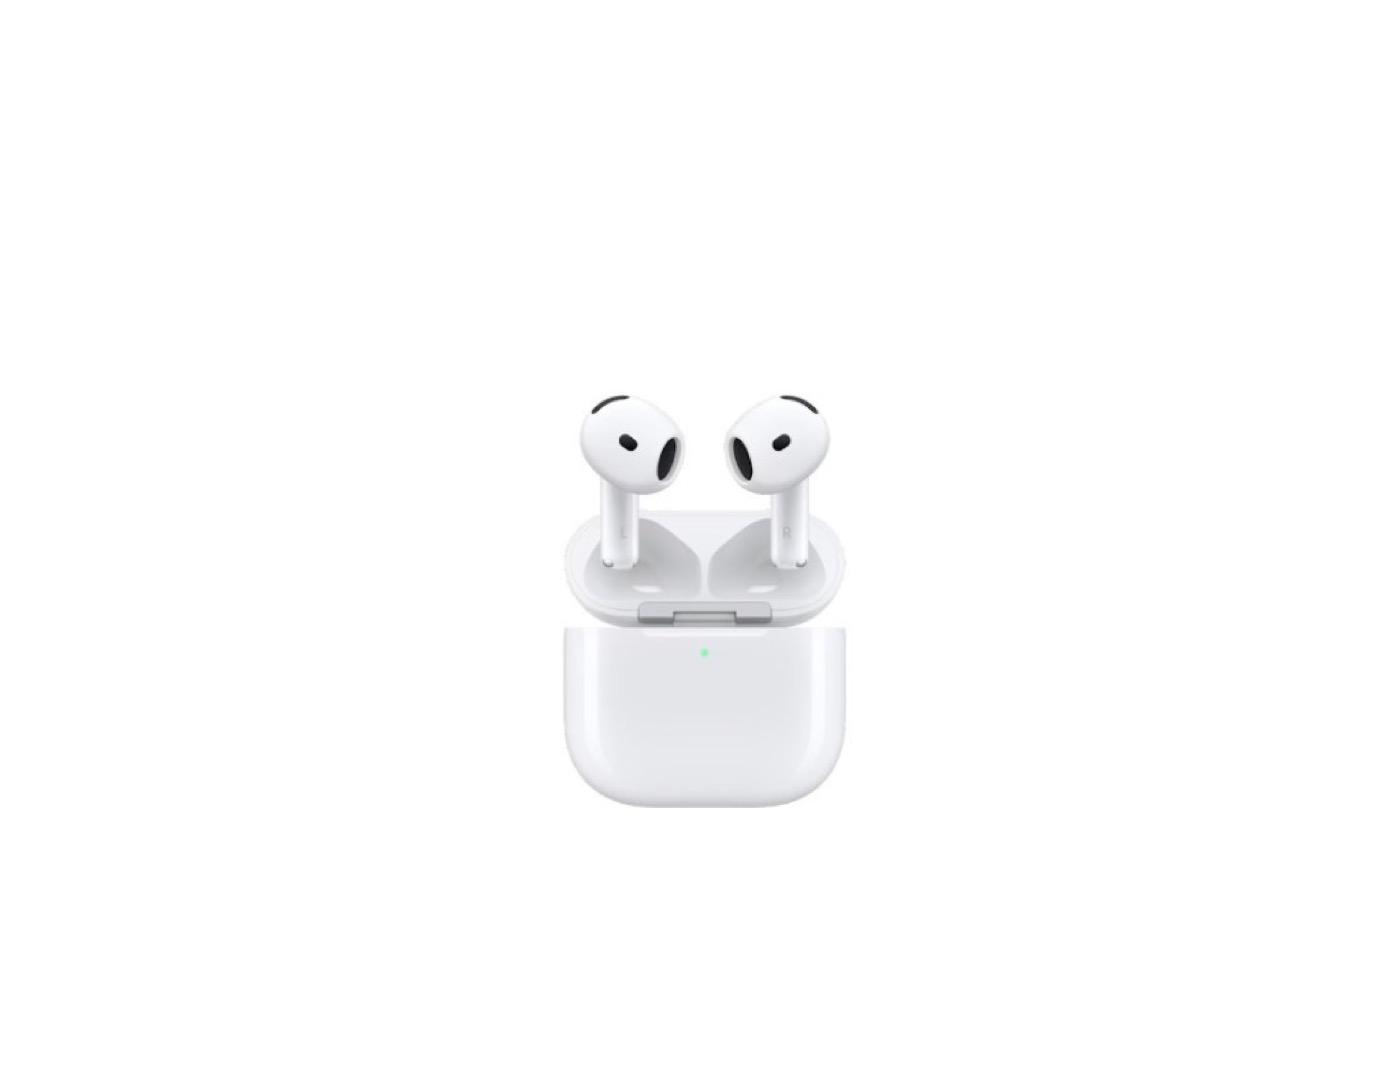
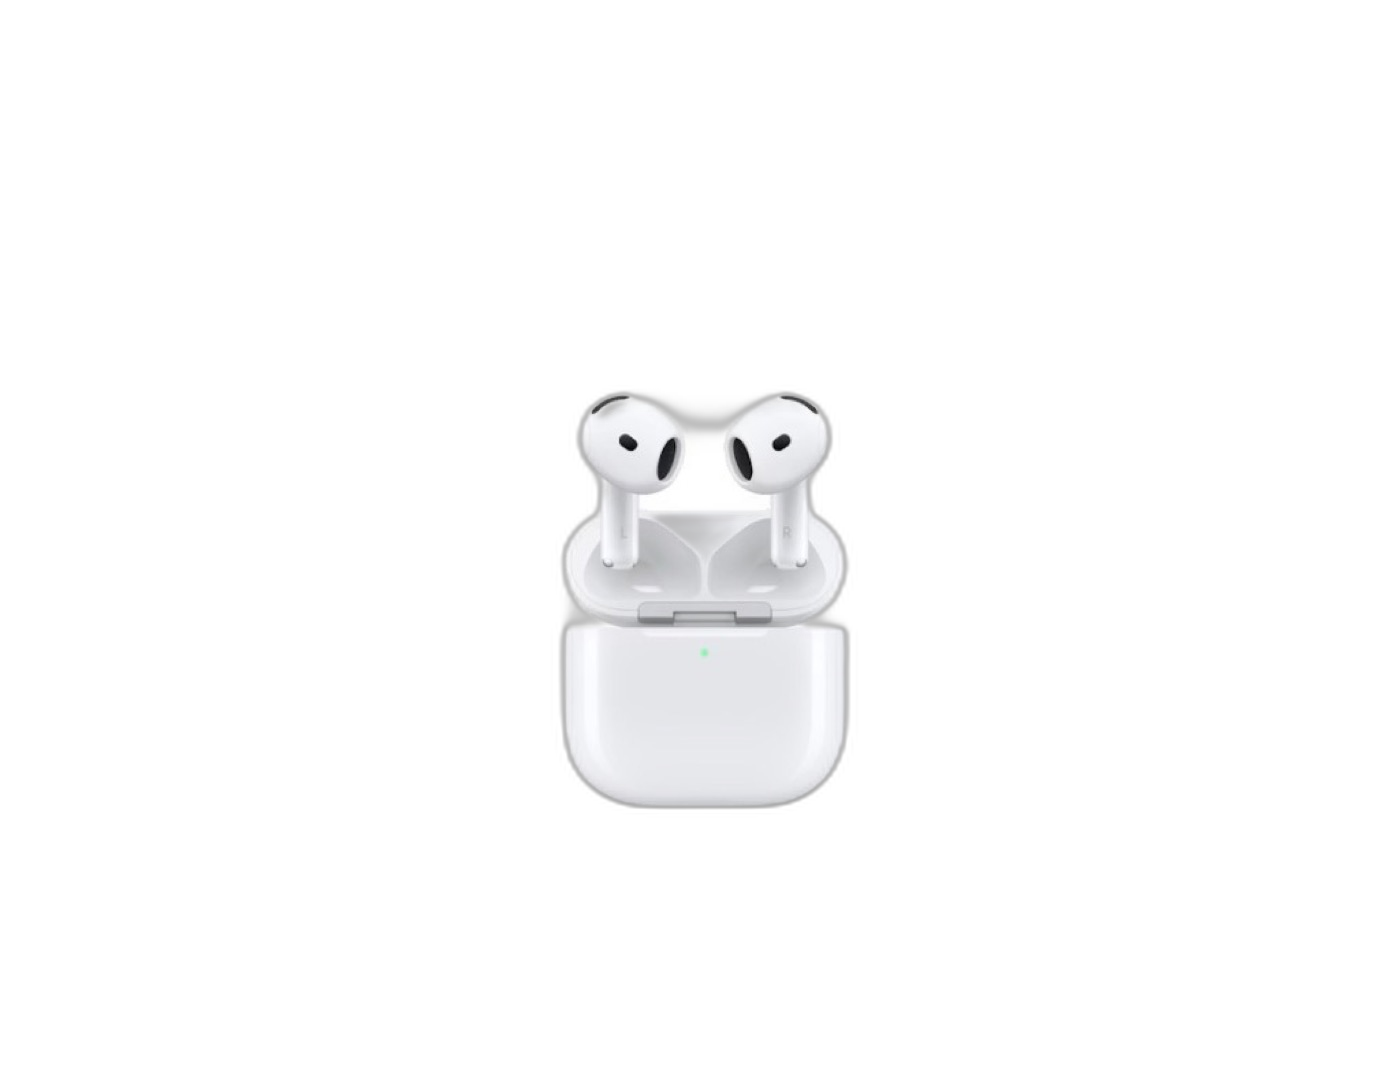
instock: transparent cutouts for tech photos (rembg); drop extra shadow
- AirPods, Mac mini, PS5 PNGs get alpha backgrounds like other instock cutouts
- Remove dark-mode-only drop-shadow now that assets match card wells

Made-with: Cursor

diff --git a/instock.html b/instock.html
@@ -1131,10 +1131,6 @@
       background: #14130f;
       border-color: #2a2824;
     }
-    html[data-theme="dark"] .pc-img-wrap img,
-    html[data-theme="dark"] .modal-zoom-stage img {
-      filter: drop-shadow(0 4px 16px rgba(0,0,0,0.55));
-    }
     html[data-theme="dark"] .pc:hover { border-color: #d8d1c5; box-shadow: 0 18px 46px rgba(0,0,0,0.7); }
     html[data-theme="dark"] .pc-name,
     html[data-theme="dark"] .pc-pkr,
